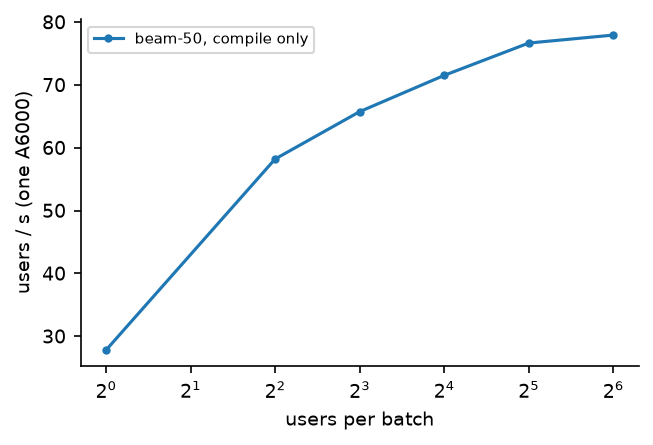
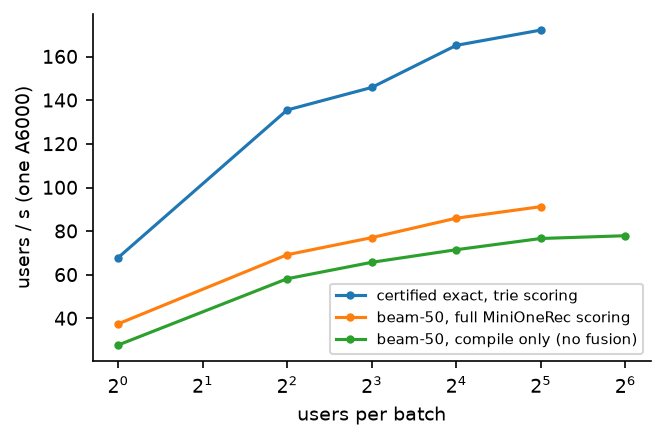
Throughput results

diff --git a/scripts/figures.py b/scripts/figures.py
@@ -88,8 +88,8 @@ if any_r:
 # 4. throughput
 fig, ax = plt.subplots(figsize=(4.8, 3.0))
 any_t = False
-for k, lab in (('sweepI/tp_beam_ff_tc', 'beam-50 (full scoring)'), ('sweepI/tp_ex3_nosuf_ff_tc', 'certified exact, no suffix'),
-               ('sweepI/tp_exff_full_n16_tc', 'prefix-filtered exact N=16'), ('sweepA/bf16_compile', 'beam-50, compile only')):
+for k, lab in (('tmplJ/tp_ex3_trie_tmpl', 'certified exact, trie scoring'), ('tmplJ/tp_beam_ff_tc_tmpl', 'beam-50, full MiniOneRec scoring'),
+               ('sweepI/tp_ex3_nosuf_ff_tc', 'certified exact, no suffix (no template)'), ('sweepA/bf16_compile', 'beam-50, compile only (no fusion)')):
     r = res(k)
     if r and r.get('throughput'):
         tp = r['throughput']

diff --git a/research/PLAN.md b/research/PLAN.md
@@ -180,3 +180,7 @@ See `lit_ledger.md`, `architecture_directions.md`, `kernel_techniques.md`.
   NDCG@10 0.1295 vs 0.1232; 2-fold cross-fit picks λ=0.3 in both folds. Beam-10 > beam-50 under the
   full objective (+0.82 [+0.08, +1.56]); exhaustive vs beam-50 under the full objective −0.12
   [−0.37, +0.12]. Search exactness is not the quality lever; the scoring rule is.
+- **Throughput with template cache (A6000, BF16, users/s at B = 1/4/8/16/32):** certified exact
+  trie 67.8 / 135.6 / 145.9 / 165.2 / **172.2**; beam-50 full semantics 37.5 / 69.2 / 77.0 / 86.0 /
+  91.3. Exact decoding is ~1.9× ahead at every batch size (fewer tokens per user: prompt tail +
+  88 trie nodes + 64 prefix rows vs prompt + 88 + 50 + 100 beam rows).
